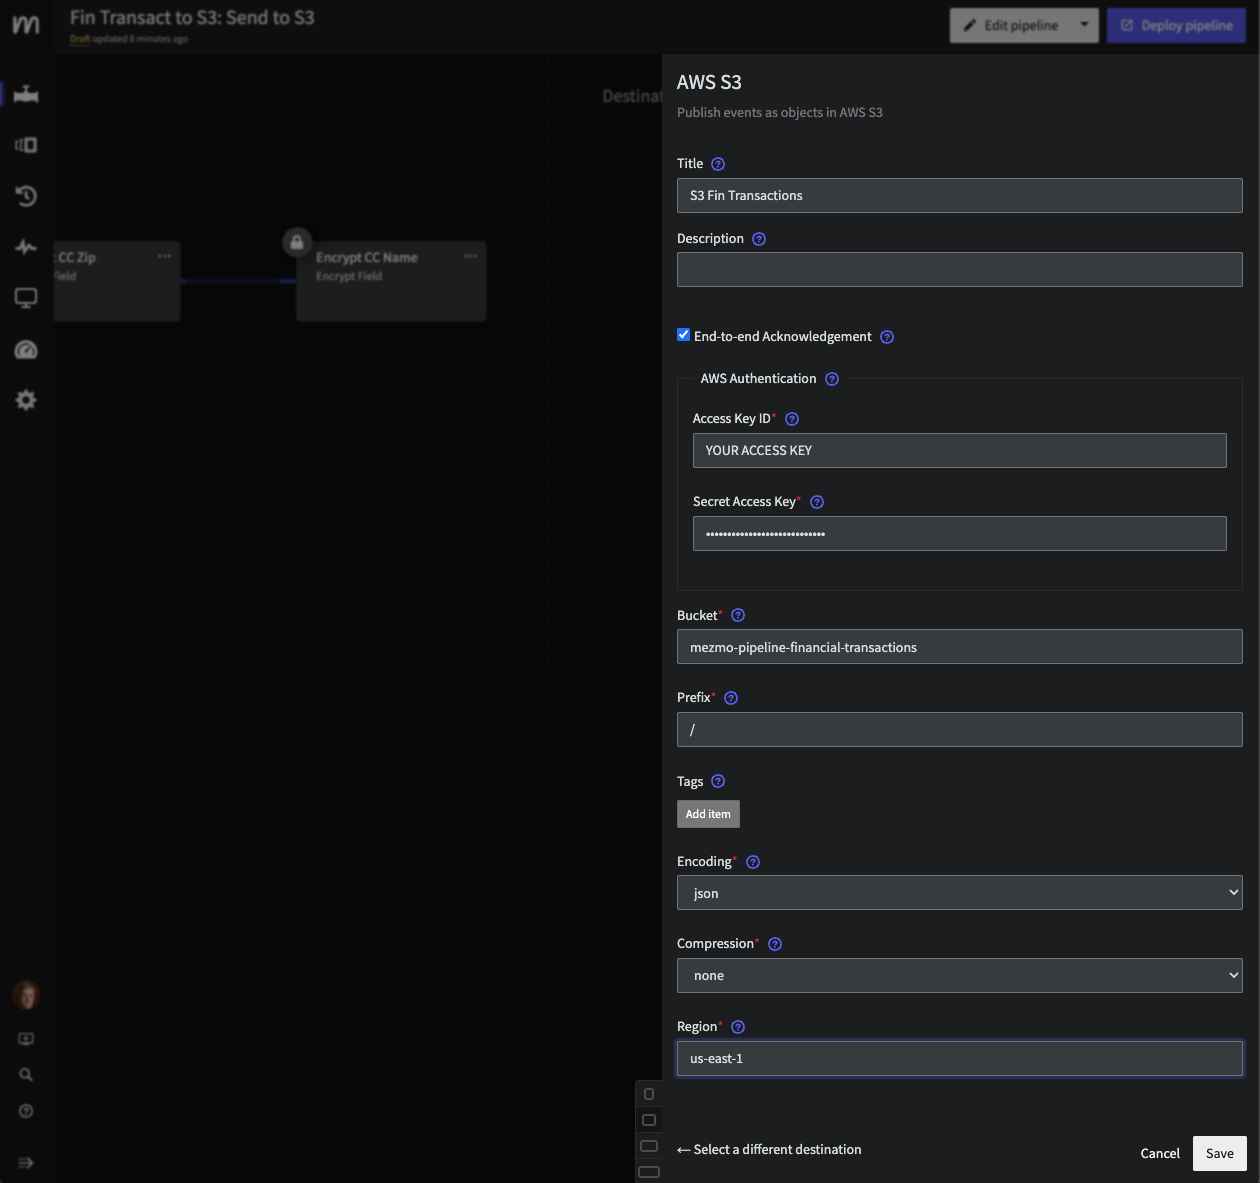
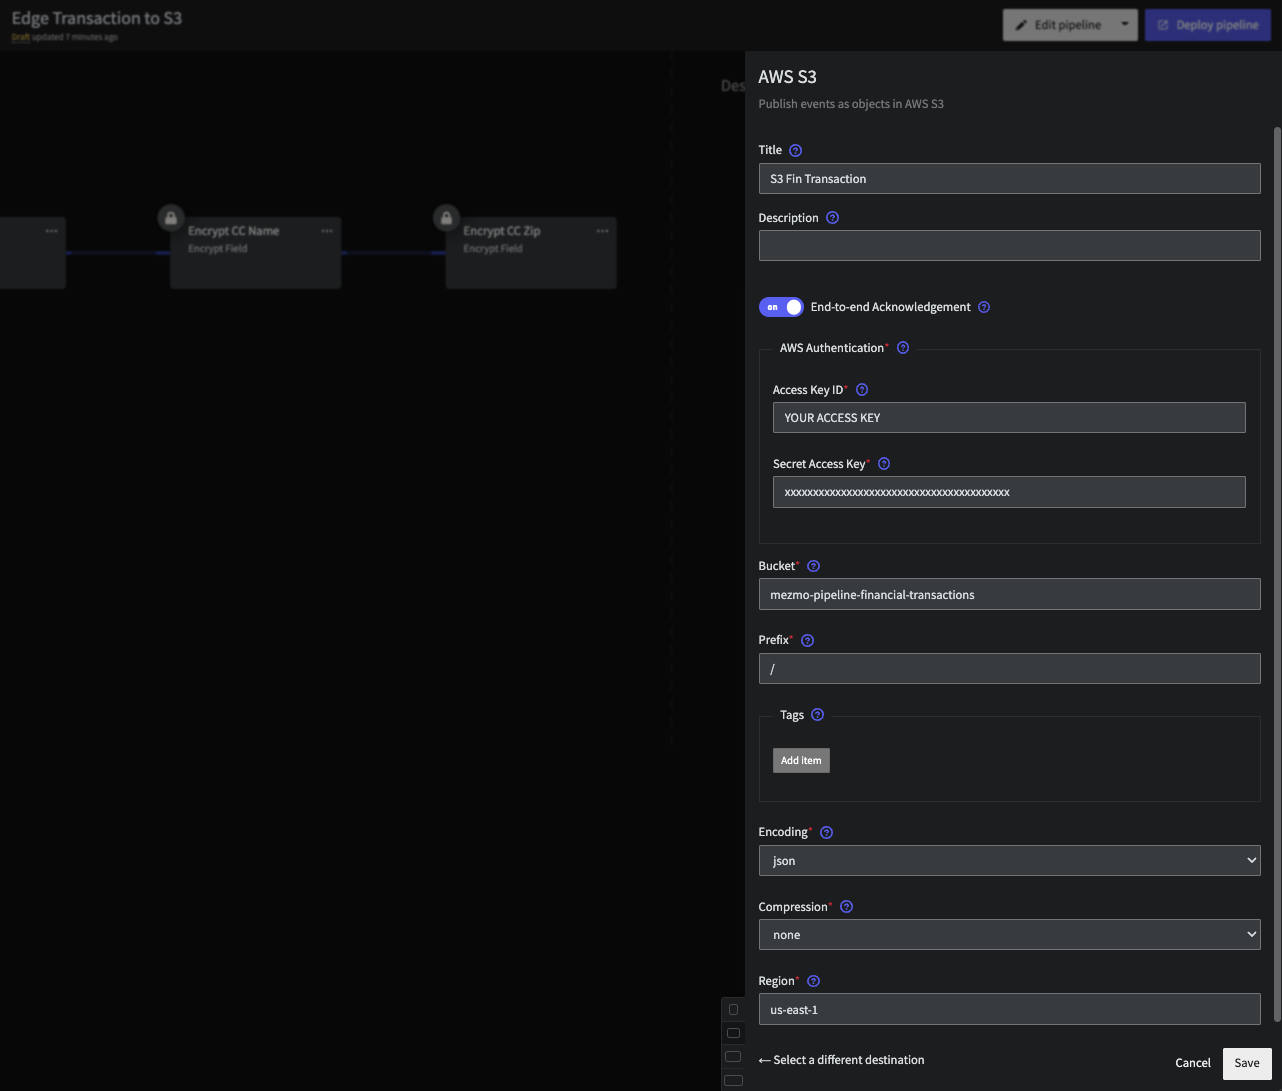
images updated and some editorial changes

diff --git a/content/en/transaction-to-s3/docs/processors.md b/content/en/transaction-to-s3/docs/processors.md
@@ -86,7 +86,7 @@ Note that we will leave the `Unmatched` route untouched for this workshop.  But 
 
 ## Step 3: Encrypt the Credit Card Information
 
-Now, let's encrypt each of the Credit Card fields individually to ensure security.  The fields we want to encrypt are
+Now, let's encrypt each of the Credit Card fields individually to ensure security and compliance.  The fields we want to encrypt are
 
 * `transaction.cc.cc_number`
 * `transaction.cc.cc_exp`
@@ -94,7 +94,13 @@ Now, let's encrypt each of the Credit Card fields individually to ensure securit
 * `transaction.cc.cc_name`
 * `transaction.cc.cc_zip`
 
-Since each are unique, order doesn't matter so much here.  For each of these, add an Encrypt processor with `AES-256-CFB` which should leave you with 5 floating processors like so
+Since each are unique, order doesn't matter so much here.  For each, add an `Encrypt Field` processor using the `AES-256-CFB` algorithm with a 32 character `Encryption Key` (checkout [AllKeysGenerator.com](https://www.allkeysgenerator.com/Random/Security-Encryption-Key-Generator.aspx)to generate each key).  Note that every encryption processor also needs an `Initialization Vector` which will be added to the event itself to allow for decryption down the road.
+
+Click `Save`.
+
+![Encrypt CC Number Dialog](../../images/add-processor_encrypt-cc-number.png)
+
+Once you do this for each of the above fields, you should have 5 floating processors like so
 
 ![Encrypt CC: Unconnected](../../images/add-processor_encrypt-cc-unconnected.png)
 

diff --git a/content/en/transaction-to-s3/docs/destinations.md b/content/en/transaction-to-s3/docs/destinations.md
@@ -20,6 +20,8 @@ We can get fancy with how we route information here (see the [workshop on S3 to 
 
 Give this Destination the title `S3 Fin Transactions`. Then, enter your `Access Key ID` and `Secret Access Key` along with the `Bucket` (we will go with `mezmo-pipeline-financial-transactions` and no `Prefix`).  Next, chose `JSON` for the `Encoding`, no compression and select the `Region` (we will go with `us-east-1`).  Click `Save` when yours looks similar to the image below.
 
+xxxxxxxxxxxxxxxxxxxxxxxxxxxxxxxxxxxxxxxx
+
 ![S3 Destination Definition](../../images/s3_definition.png)
 
 Then, connect up the last Encryption Processor for the CC data to this destination like so
@@ -43,6 +45,10 @@ It's time to connect up that `Destination` to the `Unmatched Route` from earlier
 
 ## Step 3: Deploy
 
-Now, simply Deploy your Pipeline and watch as data comes into both S3 and Log Analysis.  Looking at your bucket, you should begin seeing files like so
+Now, simply `Deploy pipeline` in the top right.  After the Pipeline should no longer be a draft and look like this
 
 ![S3 Data in AWS](../../images/pipeline_deployed.png)
+
+Watch as data comes into both S3 and Log Analysis.  Looking at your bucket, you should begin seeing files like so
+
+![S3 Data in AWS](../../images/aws_s3_data_final.png)

diff --git a/content/en/transaction-to-s3/_index.md b/content/en/transaction-to-s3/_index.md
@@ -7,7 +7,7 @@ description: >
   In this workshop, you will collect incoming financial transactions from edge devices, encrypt them in motion, filter, reduce and pass the information downstream to S3.  This is a common scenario in retail, banking and other industries with many complexities to consider.  A simplified version is presented to illustrate the fundamentals of the Mezmo Platform.
 ---
 
-**Time to complete: 15 minutes**
+**Time to complete: 20 minutes**
 
 {{% alert title="Support" %}}
 If you run into any issues or have feedback on either the workshop or Pipeline, please reach out to us at [pipeline@mezmo.com](mailto:pipeline@mezmo.com).
